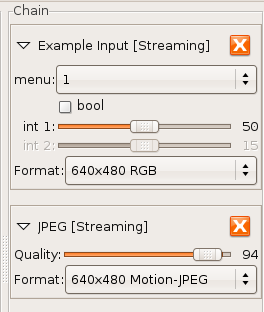
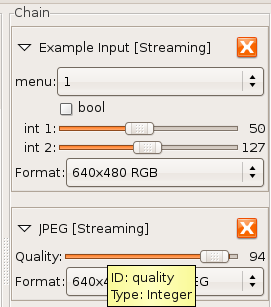
updated tutorial for camunit control tooltip

Changed region(s): [[0.0, 0.0, 1.0, 1.0], [0.1515, 0.1173, 0.7879, 0.1759]]

diff --git a/www/tutorial/x255.html b/www/tutorial/x255.html
@@ -17,7 +17,7 @@ TITLE="Conversion Units"
 HREF="x205.html"><LINK
 REL="NEXT"
 TITLE="Other Environments"
-HREF="c277.html"></HEAD
+HREF="c278.html"></HEAD
 ><BODY
 CLASS="sect1"
 BGCOLOR="#FFFFFF"
@@ -59,7 +59,7 @@ WIDTH="10%"
 ALIGN="right"
 VALIGN="bottom"
 ><A
-HREF="c277.html"
+HREF="c278.html"
 ACCESSKEY="N"
 >Next</A
 ></TD
@@ -93,17 +93,26 @@ CLASS="classname"
 >CamUnit</CODE
 > provides a list of controls that
         it exposes, which can be enumerated and accessed programmatically.
+        Each control has a string identifier, the <SPAN
+CLASS="emphasis"
+><I
+CLASS="emphasis"
+>control
+            ID</I
+></SPAN
+> unique to the unit that can be
+        used for access.
         To see which controls are available in a unit, it is probably fastest
         to examine the unit in <B
 CLASS="command"
 >camview</B
 >, which enumerates
         all the controls for a unit and provides GUI widgets for adjusting
-        them.  <A
+        them.  The control ID can be found by hovering the mouse over the
+        actual control and waiting for a tooltip to appear.  <A
 HREF="x255.html#camunit-controls-fig"
 >Figure 2-1</A
-> shows an example of
-        this.
+> shows an example of this.
 
 <DIV
 CLASS="figure"
@@ -203,7 +212,7 @@ WIDTH="33%"
 ALIGN="right"
 VALIGN="top"
 ><A
-HREF="c277.html"
+HREF="c278.html"
 ACCESSKEY="N"
 >Next</A
 ></TD

diff --git a/www/tutorial/a284.html b/www/tutorial/a284.html
@@ -11,7 +11,7 @@ TITLE="libcam Tutorial"
 HREF="index.html"><LINK
 REL="PREVIOUS"
 TITLE="Other Environments"
-HREF="c277.html"></HEAD
+HREF="c278.html"></HEAD
 ><BODY
 CLASS="appendix"
 BGCOLOR="#FFFFFF"
@@ -39,7 +39,7 @@ WIDTH="10%"
 ALIGN="left"
 VALIGN="bottom"
 ><A
-HREF="c277.html"
+HREF="c278.html"
 ACCESSKEY="P"
 >Prev</A
 ></TD
@@ -608,7 +608,7 @@ NAME="HowToUse"
     notices just after the title page:
   </P
 ><A
-NAME="AEN371"
+NAME="AEN372"
 ></A
 ><BLOCKQUOTE
 CLASS="BLOCKQUOTE"
@@ -629,7 +629,7 @@ CLASS="BLOCKQUOTE"
     replace the "with...Texts." line with this:
   </P
 ><A
-NAME="AEN375"
+NAME="AEN376"
 ></A
 ><BLOCKQUOTE
 CLASS="BLOCKQUOTE"
@@ -666,7 +666,7 @@ WIDTH="33%"
 ALIGN="left"
 VALIGN="top"
 ><A
-HREF="c277.html"
+HREF="c278.html"
 ACCESSKEY="P"
 >Prev</A
 ></TD

diff --git a/www/tutorial/c278.html b/www/tutorial/c278.html
@@ -14,7 +14,7 @@ TITLE="Unit Controls"
 HREF="x255.html"><LINK
 REL="NEXT"
 TITLE="GNU Free Documentation License"
-HREF="a283.html"></HEAD
+HREF="a284.html"></HEAD
 ><BODY
 CLASS="chapter"
 BGCOLOR="#FFFFFF"
@@ -56,7 +56,7 @@ WIDTH="10%"
 ALIGN="right"
 VALIGN="bottom"
 ><A
-HREF="a283.html"
+HREF="a284.html"
 ACCESSKEY="N"
 >Next</A
 ></TD
@@ -125,7 +125,7 @@ WIDTH="33%"
 ALIGN="right"
 VALIGN="top"
 ><A
-HREF="a283.html"
+HREF="a284.html"
 ACCESSKEY="N"
 >Next</A
 ></TD

diff --git a/www/tutorial/index.html b/www/tutorial/index.html
@@ -184,21 +184,21 @@ HREF="x255.html"
 ></DD
 ><DT
 >3. <A
-HREF="c277.html"
+HREF="c278.html"
 >Other Environments</A
 ></DT
 ><DD
 ><DL
 ><DT
 >3.1. <A
-HREF="c277.html#otherenvs-eventloops"
+HREF="c278.html#otherenvs-eventloops"
 >Using non GLib event loops</A
 ></DT
 ></DL
 ></DD
 ><DT
 >A. <A
-HREF="a283.html"
+HREF="a284.html"
 >GNU Free Documentation License</A
 ></DT
 ></DL

diff --git a/www/tutorial/x39.html b/www/tutorial/x39.html
@@ -80,7 +80,7 @@ NAME="preface-license"
 >&#13;        This tutorial is freely available and distributable under the terms of
         the GNU Free Documentation License.  For the full text of the license,
         see <A
-HREF="a283.html"
+HREF="a284.html"
 >Appendix A</A
 >.
     </P
